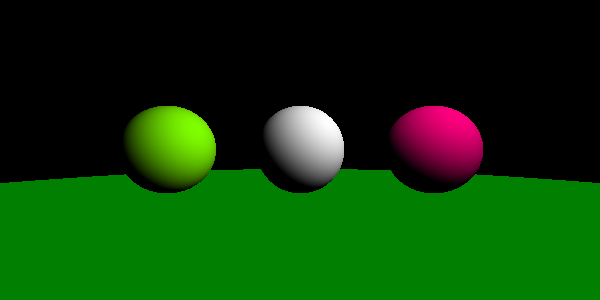
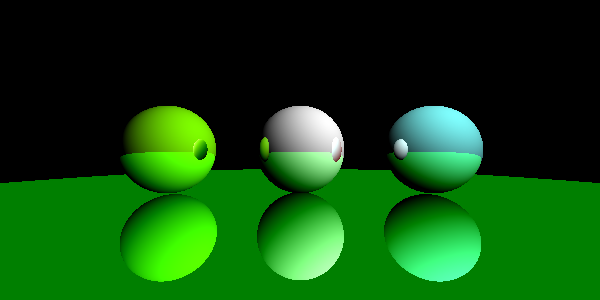
add reflection

Changed region(s): [[0.63, 0.33, 0.81, 0.96], [0.18, 0.45, 0.36, 0.96], [0.42, 0.45, 0.6, 0.93]]

diff --git a/Renderer.py b/Renderer.py
@@ -52,26 +52,34 @@ class Renderer:
         color = np.array([[0], [0], [0]])
         multiplier = 1.0
 
-        hitPayload = self.TraceRay(ray)
+        bounces = 2
 
-        if hitPayload.HitDistance < 0.0:
-            skyColor = np.array([[0], [0], [0]])
-            color = color + skyColor * multiplier
-            return Utils.toColor(color)
+        for i in range(0, bounces):
+
+            hitPayload = self.TraceRay(ray)
+
+            if hitPayload.HitDistance < 0.0:
+                skyColor = np.array([[0], [0], [0]])
+                color = color + skyColor * multiplier
+                return Utils.toColor(color)
+
+            lightSource = np.array([[2],[2],[2]])
+
+            sphere = self.scene.Spheres[hitPayload.ObjectIndex]
+
+            lightDir = Utils.normalize(sphere.Position - lightSource)
+            lightIntensity = np.max(np.dot(hitPayload.WorldNormal.T, -lightDir), 0)
+
+            sphereColor = sphere.Albedo
+            sphereColor = sphereColor * lightIntensity
+            color = color + sphereColor * multiplier
+
+            multiplier = multiplier * 0.7
+
+            ray.Origin = hitPayload.WorldPosition + hitPayload.WorldNormal * 0.0001
+            ray.Direction = ray.Direction - 2 * (np.dot(ray.Direction.T, hitPayload.WorldNormal) * hitPayload.WorldNormal)
 
 
-        lightSource = np.array([[2],[2],[2]])
-
-        sphere = self.scene.Spheres[hitPayload.ObjectIndex]
-
-        lightDir = Utils.normalize(sphere.Position - lightSource)
-        lightIntensity = np.max(np.dot(hitPayload.WorldNormal.T, -lightDir), 0)
-
-        sphereColor = sphere.Albedo
-        sphereColor = sphereColor * lightIntensity
-        color = color + sphereColor * multiplier
-
-        multiplier = multiplier * 0.77
         return Utils.toColor(color)
 
     def TraceRay(self, ray: Ray):

diff --git a/main.py b/main.py
@@ -17,7 +17,7 @@ renderer = Renderer(width, height)
 
 spheres = list()
 spheres.append(Sphere(np.array([[-1.5], [0], [0]]), 0.5, np.array([[0.5], [1], [0]])))
-spheres.append(Sphere(np.array([[1.5], [0], [0]]), 0.5, np.array([[1], [0], [0.5]])))
+spheres.append(Sphere(np.array([[1.5], [0], [0]]), 0.5, np.array([[0.5], [1], [1]])))
 spheres.append(Sphere(np.array([[0], [0], [0]]), 0.5, np.array([[1], [1], [1]])))
 spheres.append(Sphere(np.array([[0], [-100.5], [0]]), 100.0, np.array([[0], [0.5], [0]])))
 
